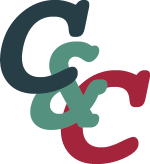
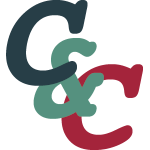
enhanced firm

diff --git a/itis3135/cawleyandco.com/index.html b/itis3135/cawleyandco.com/index.html
@@ -58,7 +58,7 @@
 <body>
   <header>
     <h1>Cawley & Company</h1>
-    <img src="../images/CandC.png">
+    <img height="150px" width="150px" src="../images/CandC.png" alt="C&C, the Cawley & Company logo">
   </header>
   <main>
     <h2>Cawley & Company's Services</h2>
@@ -81,7 +81,7 @@
       experience in as little as one month. We will implement and maintain your experience for the duration of your
       company's existence. Call today for a free consultation, and let Cawley & Company design a new, online location
       for your business or enterprise!</p>
-    <p class="contact"><strong>(555) 555-5555 || contact@cawleyandco.com || 3 Business Park St. Companyville NC</strong></p>
+    <p class="contact"><strong>(555) 555-5555 || contact@cawleyandco.com || 3 Business Park St. Companyville, NC</strong></p>
   </main>
   <footer>
     <p><em>Dedicated to building quality web experiences since 2023</em></p>
